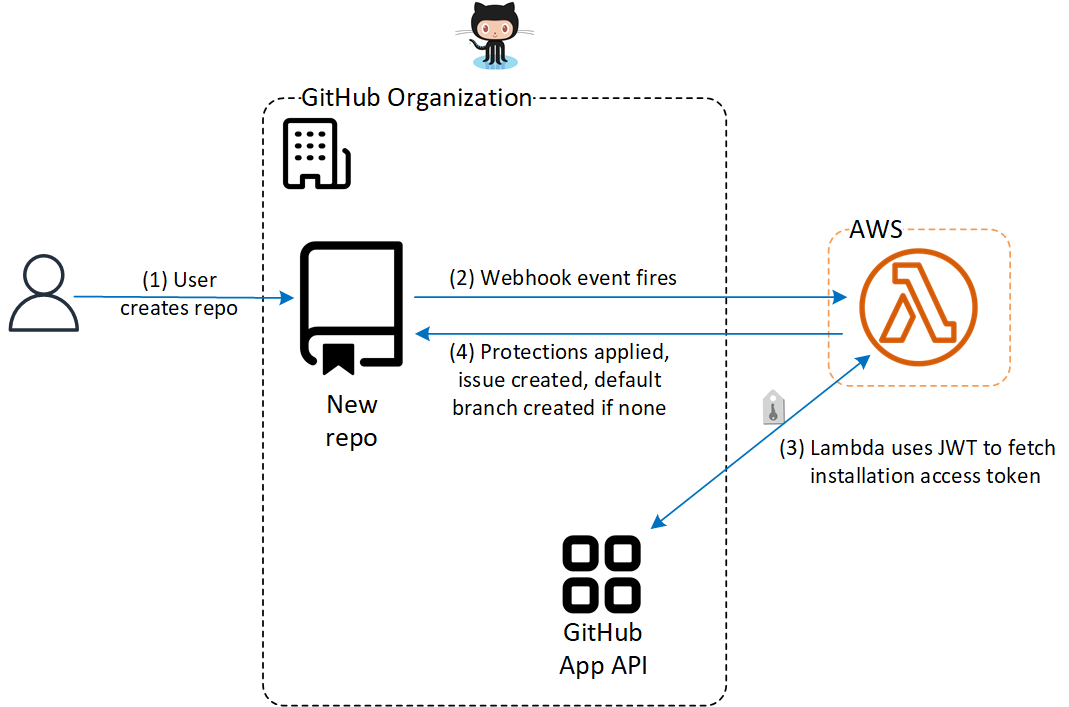
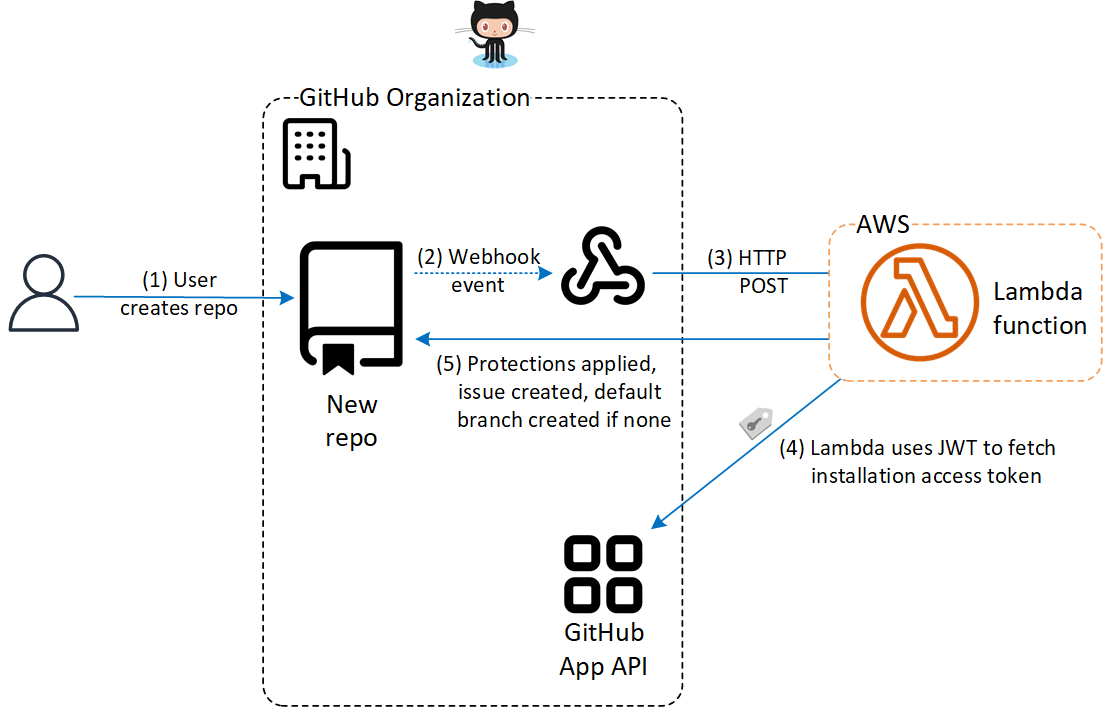
Updated readme and visio diagram

diff --git a/README.md b/README.md
@@ -18,17 +18,50 @@ Over time, organizations often find they create an increasing number of code rep
 
 The following sections show a high-level diagram of the solution, and then details on how to implement each of the above items. **This is a proof of concept - do not put this solution into production unless/until you review and understand all aspects of what it's doing**.
 
-_Note: you will deploy the .NET 6 project to AWS Lambda before creating the Github App because the Lambda function's URL is needed when configuring the GitHub App._
+## Solution Overview
 
-## High-level diagram of the solution
+
+### GitHub App
+
+
+### AWS Lambda function
 
 ![Solution Diagram](docs/Solution-diagram.png)
 
-## Deploy the .NET 6 application to AWS Lambda
+## How to implement the solution
+
+_Note: you will deploy the .NET 6 project to AWS Lambda before creating the Github App because the Lambda function's URL is needed when configuring the GitHub App._
+
+### Deploy the .NET 6 application to AWS Lambda
 
 TBD
 
+### Create and install the GitHub App
 
-## Create the GitHub App
+### Create and register a new GitHub App
+
+Follow the steps in the GitHub docs for [Creating a GitHub App](https://docs.github.com/en/developers/apps/building-github-apps/creating-a-github-app). As you get to each of the steps below, follow the instructions for that step:
+
+**Step 7**. For your app's website URL, you could use the URL of the repo containing your fork/copy of this code, or an intranet site with documentaion for your implementation of this solution.
+
+**Step 8**. Leave the callback URL blank.
+
+**Steps 9 - 12**. Skip steps 9 through 12
+
+**Step 13.** Paste your Lambda function URL from the previous section into the Webhook URL field.
+
+**Step 14**. Enter in a secret for your webhook. Follow the guidance in the GitHub docs for [Securing your webhooks](https://docs.github.com/en/developers/webhooks-and-events/webhooks/securing-your-webhooks) to choose a secret.  **Store your secret somewhere secure and never share it - you will need it to configure your AWS Lambda**.
+
+**Step 15**. For repository permissions, select `read and write` for 'Administration', 'Contents' and 'Issues'. Select `read-only` for 'Metadata'. 
+
+**Step 16**. Under 'Subscribe to events', select `Repository`.
+
+You have now created and registered your GitHub app. Next, you'll need to install it for your organization.
+
+### Install the GitHub App for your organization
+
+TBD
+
+### Configure Lambda function environment variables
 
 TBD
